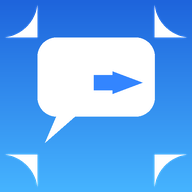
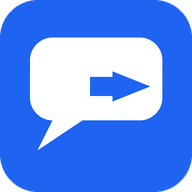
fix: v9.2 柔光玻璃UI + 小米无障碍兼容 + 新图标
- 小米MIUI: 尝试多种方式打开无障碍设置
- 新图标: 蓝底消息气泡+发送箭头
- 柔光玻璃UI: 半透明卡片、渐变背景、毛玻璃效果
- 新presplash启动图

diff --git a/main.py b/main.py
@@ -1,6 +1,6 @@
 # -*- coding: utf-8 -*-
 """
-消息助手 v9.0 - 全自动聊天框识别发送
+消息助手 v9.2 - 柔光玻璃UI + 小米无障碍兼容
 """
 import os
 import threading
@@ -13,16 +13,14 @@ from kivy.core.text import LabelBase
 from kivy.core.window import Window
 from kivy.utils import platform
 from kivy.logger import Logger
-from kivy.properties import StringProperty, BooleanProperty, NumericProperty
+from kivy.properties import StringProperty, BooleanProperty
 from kivy.uix.boxlayout import BoxLayout
 from kivy.lang import Builder
 
 ANDROID = platform == 'android'
 
-# 加载KV
 Builder.load_file(os.path.join(os.path.dirname(os.path.abspath(__file__)), 'message.kv'))
 
-# 字体
 FONT_NAME = 'Roboto'
 try:
     fp = os.path.join(os.path.dirname(os.path.abspath(__file__)), 'fonts', 'chinese.ttf')
@@ -59,7 +57,7 @@ class MsgApp(App):
         self._service = None
 
     def build(self):
-        Window.clearcolor = (0.96, 0.96, 0.96, 1)
+        Window.clearcolor = (0.94, 0.95, 0.98, 1)
         Clock.schedule_once(self._init, 0.5)
         return RootWidget()
 
@@ -83,12 +81,13 @@ class MsgApp(App):
                 self._log('无障碍服务已连接')
             else:
                 self.service_ok = False
-                self._log('请点击下方按钮开启无障碍服务')
+                self._log('请点击按钮开启无障碍服务')
         except Exception as e:
             self.service_ok = False
-            self._log(f'无障碍检查失败: {e}')
+            self._log(f'检查失败: {e}')
 
     def open_settings(self):
+        """打开无障碍设置 - 兼容小米MIUI"""
         if not ANDROID:
             self._log('仅支持Android')
             return
@@ -97,8 +96,38 @@ class MsgApp(App):
             ctx = autoclass('org.kivy.android.PythonActivity').mActivity
             Intent = autoclass('android.content.Intent')
             Settings = autoclass('android.provider.Settings')
-            ctx.startActivity(Intent(Settings.ACTION_ACCESSIBILITY_SETTINGS))
-            self._log('请找到[消息助手]并开启')
+
+            # 尝试多种方式打开无障碍设置
+            intents = [
+                # 标准Android无障碍设置
+                Intent(Settings.ACTION_ACCESSIBILITY_SETTINGS),
+                # 小米MIUI无障碍设置
+                Intent().setClassName('com.miui.securitycenter', 'com.miui.permcenter.AccessibilityActivity'),
+                Intent().setClassName('com.miui.securitycenter', 'com.miui.permcenter.settings.AccessibilitySettingsActivity'),
+                # 小米设置中的无障碍
+                Intent().setClassName('com.android.settings', 'com.android.settings.AccessibilitySettings'),
+            ]
+
+            opened = False
+            for intent in intents:
+                try:
+                    intent.addFlags(Intent.FLAG_ACTIVITY_NEW_TASK)
+                    ctx.startActivity(intent)
+                    opened = True
+                    self._log('已打开无障碍设置')
+                    break
+                except Exception:
+                    continue
+
+            if not opened:
+                # 最后尝试通用设置
+                try:
+                    ctx.startActivity(Intent(Settings.ACTION_SETTINGS).addFlags(Intent.FLAG_ACTIVITY_NEW_TASK))
+                    self._log('已打开系统设置，请手动找到无障碍')
+                except Exception:
+                    self._log('打开设置失败')
+
+            self._log('请找到[消息助手自动发送]并开启')
         except Exception as e:
             self._log(f'打开失败: {e}')
 
